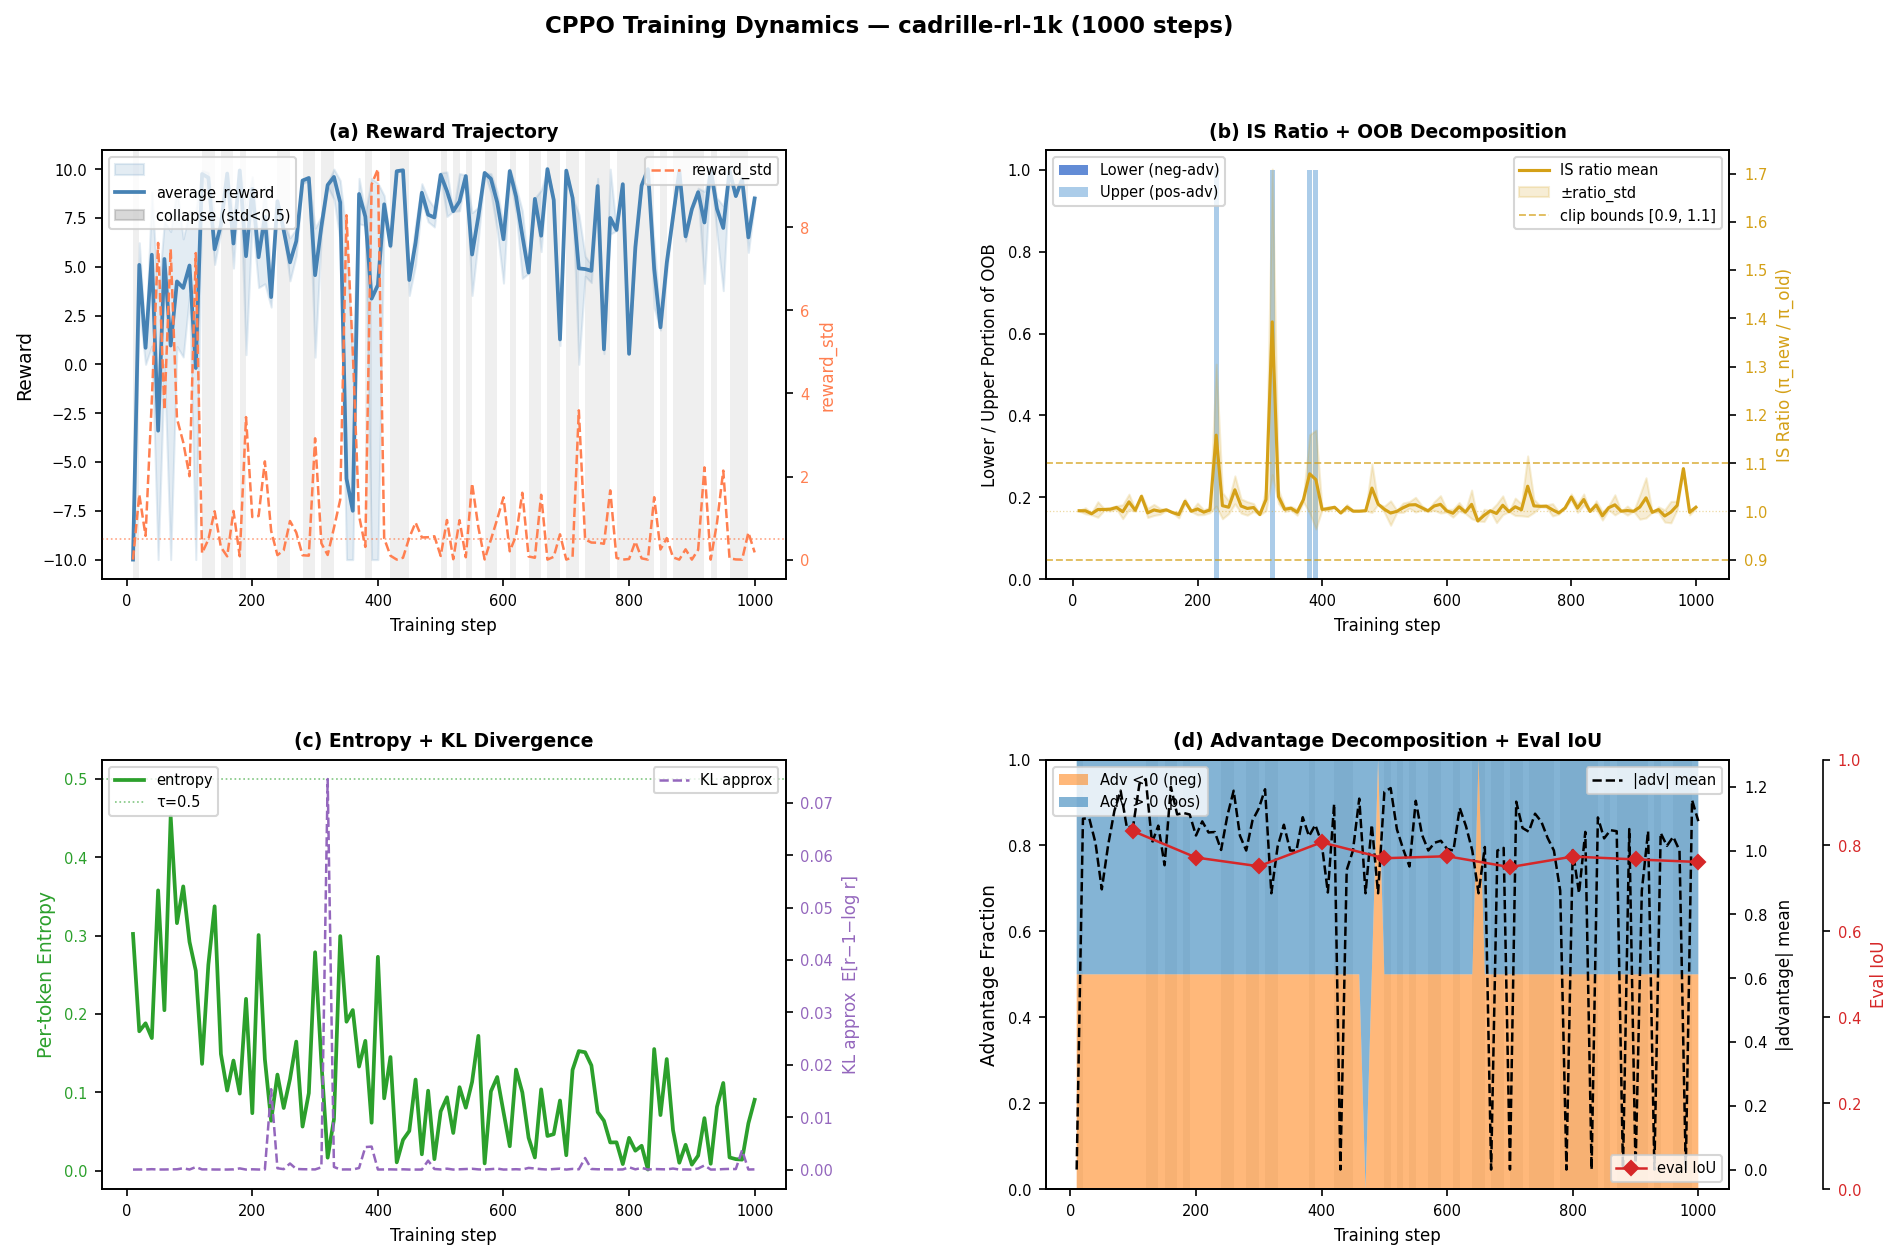
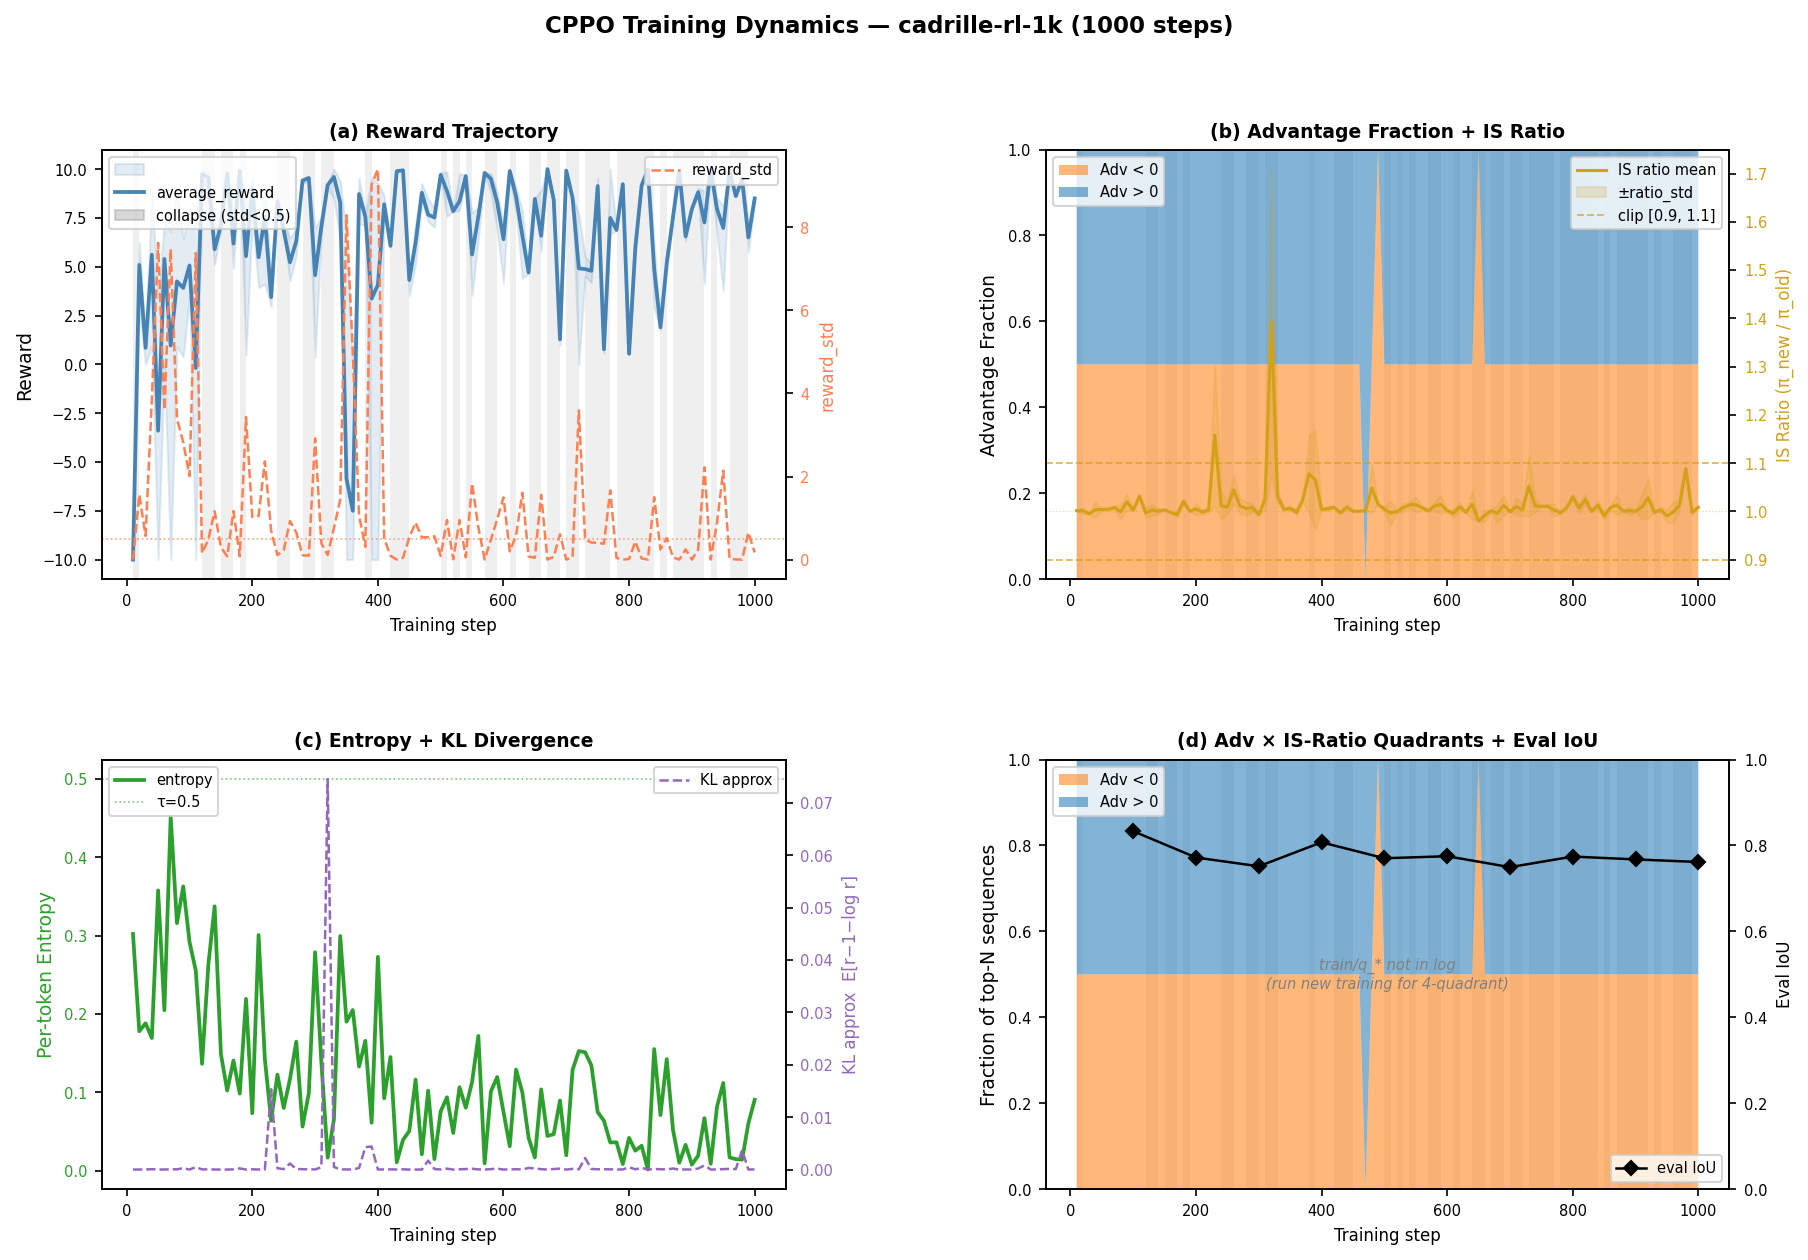
feat: 4-quadrant advantage×IS-ratio decomposition + panel redesign
rl/train.py — cppo_step():
  Add 4 joint metrics logged every step:
    train/q_pp  adv>0  & ratio>1  (healthy: prob↑ for good output)
    train/q_pn  adv>0  & ratio≤1  (mismatch: prob↓ for good output)
    train/q_np  adv≤0  & ratio>1  (mismatch: prob↑ for bad output)
    train/q_nn  adv≤0  & ratio≤1  (healthy: prob↓ for bad output)
  All four are NaN when reward_std<1e-6 (degenerate step).

viz/training_dynamics.py:
  Panel (b) — plot_adv_is():
    Left:  2-way advantage fraction stackplot (moved from old panel d)
    Right: IS ratio mean ± std with clip-bound lines [0.9, 1.1]

  Panel (d) — plot_4quadrant():
    4-way stackplot stacked nn/np/pn/pp (blue/red/orange/green)
    Collapse steps masked and forward-filled; grey collapse shading.
    Falls back to 2-way advantage fraction for old logs without q_* keys,
    with a note prompting a new training run.
    Eval IoU overlay preserved on right axis.

diff --git a/viz/training_dynamics.py b/viz/training_dynamics.py
@@ -144,40 +144,35 @@ def plot_reward(ax, steps, rows):
     ax.legend(handles=ax.get_legend().legend_handles + [patch], fontsize=7, loc='upper left')
 
 
-def plot_oob_is(ax, steps, rows):
-    """OOB IS ratio matching SAPO Fig. 4a exactly.
+def plot_adv_is(ax, steps, rows):
+    """Panel (b): Advantage fraction (left) + IS ratio mean ± std (right).
 
-    Left y-axis bars: lower/upper PORTION of OOB sequences (fraction of OOB that
-    are lower-bound vs upper-bound clipped) — so lower+upper = 1.0 within OOB steps.
-    Right y-axis gold line: total OOB rate % (clip_fraction * 100).
+    Left y-axis stackplot: fraction of top-N sequences with positive vs negative
+    advantage (2-way split).  Collapse zones (reward_std≈0) are forward-filled
+    and shaded grey.
 
-    A bar only appears when clip_fraction > 0. When no clipping occurs the bar
-    height is 0 (not plotted), so the axis never reaches 100% spuriously.
+    Right y-axis: IS ratio mean ± std band with clip-bound lines at
+    [1-EPS_LOW, 1+EPS_HIGH].  Falls back to total OOB rate when ratio_mean
+    is not present in the log.
     """
-    clip_lo  = np.nan_to_num(_col(rows, 'train/clip_lower_frac'))
-    clip_hi  = np.nan_to_num(_col(rows, 'train/clip_upper_frac'))
-    clip_tot = np.nan_to_num(_col(rows, 'train/clip_fraction'))
+    std_r    = _col(rows, 'train/reward_std')
+    pos_frac = _col(rows, 'train/adv_pos_frac')
 
-    has_decomp = not (np.all(clip_lo == 0) and np.all(clip_hi == 0))
+    # Mask degenerate collapse steps and forward-fill for stackplot
+    pos_frac  = np.where(std_r < 1e-3, np.nan, pos_frac)
+    pos_filled = _ffill(pos_frac, fill_val=0.5)
+    neg_filled = 1.0 - pos_filled
 
-    # Normalise to fraction-of-OOB (lower + upper = 1 when clip_tot > 0)
-    safe_tot = np.where(clip_tot > 0, clip_tot, np.nan)
-    lower_portion = np.where(clip_tot > 0, clip_lo / safe_tot, 0.0)
-    upper_portion = np.where(clip_tot > 0, clip_hi / safe_tot, 0.0)
+    _shade_collapse(ax, steps, std_r)
+    ax.stackplot(steps,
+                 [neg_filled, pos_filled],
+                 labels=['Adv < 0', 'Adv > 0'],
+                 colors=['#FF7F0E', '#1F77B4'],
+                 alpha=0.55)
+    ax.set_ylabel('Advantage Fraction', fontsize=9)
+    ax.set_ylim(0, 1)
 
-    width = max(1, (steps[-1] - steps[0]) / len(steps) * 0.8) if len(steps) > 1 else 1
-
-    if has_decomp:
-        ax.bar(steps, lower_portion, width=width,
-               color='#4878CF', alpha=0.85, label='Lower (neg-adv)')
-        ax.bar(steps, upper_portion, width=width, bottom=lower_portion,
-               color='#9DC3E6', alpha=0.85, label='Upper (pos-adv)')
-    else:
-        # No decomposition available — just show total as a single bar
-        ax.bar(steps, np.where(clip_tot > 0, 1.0, 0.0), width=width,
-               color='#4878CF', alpha=0.85, label='OOB (no decomp)')
-
-    # Right axis: IS ratio mean ± std with clip-bound lines
+    # Right axis: IS ratio mean ± std
     ratio_mean = _col(rows, 'train/ratio_mean')
     ratio_std  = np.nan_to_num(_col(rows, 'train/ratio_std'), nan=0.0)
     has_ratio  = not np.all(np.isnan(ratio_mean))
@@ -189,23 +184,21 @@ def plot_oob_is(ax, steps, rows):
         ax2.fill_between(steps, rm - ratio_std, rm + ratio_std,
                          color='#D4A017', alpha=0.18, label='±ratio_std')
         ax2.axhline(1 - EPS_LOW,  color='#D4A017', lw=0.9, ls='--', alpha=0.7,
-                    label=f'clip bounds [{1 - EPS_LOW:.1f}, {1 + EPS_HIGH:.1f}]')
+                    label=f'clip [{1 - EPS_LOW:.1f}, {1 + EPS_HIGH:.1f}]')
         ax2.axhline(1 + EPS_HIGH, color='#D4A017', lw=0.9, ls='--', alpha=0.7)
         ax2.axhline(1.0,          color='#D4A017', lw=0.6, ls=':', alpha=0.4)
         ax2.set_ylabel('IS Ratio (π_new / π_old)', color='#D4A017', fontsize=8)
         ax2.tick_params(axis='y', labelcolor='#D4A017', labelsize=7)
         ax2.legend(fontsize=7, loc='upper right')
     else:
-        ax2.plot(steps, clip_tot * 100, color='#D4A017', lw=1.5, label='Total OOB rate (%)')
-        ax2.set_ylabel('Total OOB Rate (%)', color='#D4A017', fontsize=8)
+        clip_tot = np.nan_to_num(_col(rows, 'train/clip_fraction'))
+        ax2.plot(steps, clip_tot * 100, color='#D4A017', lw=1.5, label='OOB rate (%)')
+        ax2.set_ylabel('OOB Rate (%)', color='#D4A017', fontsize=8)
         ax2.tick_params(axis='y', labelcolor='#D4A017', labelsize=7)
         ax2.legend(fontsize=7, loc='upper right')
 
-    ax.set_ylabel('Lower / Upper Portion of OOB', fontsize=8)
-    ax.set_title('(b) IS Ratio + OOB Decomposition', fontsize=9, fontweight='bold')
-    ax.set_ylim(0, 1.05)
+    ax.set_title('(b) Advantage Fraction + IS Ratio', fontsize=9, fontweight='bold')
     ax.legend(fontsize=7, loc='upper left')
-    # Note: right-axis legend handled above
 
 
 def plot_entropy_kl(ax, steps, rows):
@@ -240,49 +233,77 @@ def _ffill(arr: np.ndarray, fill_val: float = 0.5) -> np.ndarray:
     return out
 
 
-def plot_advantage(ax, steps, rows, eval_rows):
-    pos_frac  = _col(rows, 'train/adv_pos_frac')
-    abs_mean  = _col(rows, 'train/adv_abs_mean')
-    std_r     = _col(rows, 'train/reward_std')
+def plot_4quadrant(ax, steps, rows, eval_rows):
+    """Panel (d): 4-quadrant advantage × IS-ratio stackplot + eval IoU.
 
-    # Mask degenerate collapse steps (reward_std≈0 → all advantages=0 → pos_frac=0 is misleading)
-    pos_frac = np.where(std_r < 1e-3, np.nan, pos_frac)
+    The 4 quadrants partition every top-N sequence by:
+      - advantage sign  (adv > 0  vs  adv ≤ 0)
+      - IS ratio vs 1   (ratio > 1  vs  ratio ≤ 1)
 
-    # Forward-fill NaN so stackplot has no gaps (collapse zones kept at last known split)
-    pos_filled = _ffill(pos_frac, fill_val=0.5)
-    neg_filled = 1.0 - pos_filled
+    Healthy training concentrates in pp (green) and nn (blue).
+    Mismatch quadrants np (red) and pn (orange) indicate the policy moved
+    against the gradient signal.
 
-    # Shade collapse zones so it's clear those regions are forward-filled
+    Falls back to 2-way advantage fraction when q_* metrics are absent (old logs).
+    """
+    std_r = _col(rows, 'train/reward_std')
+    q_pp  = _col(rows, 'train/q_pp')   # adv>0, IS>1  (good)
+    q_pn  = _col(rows, 'train/q_pn')   # adv>0, IS≤1  (mismatch)
+    q_np  = _col(rows, 'train/q_np')   # adv≤0, IS>1  (mismatch)
+    q_nn  = _col(rows, 'train/q_nn')   # adv≤0, IS≤1  (good)
+
+    has_4q = not np.all(np.isnan(q_pp))
+
     _shade_collapse(ax, steps, std_r)
 
-    ax.stackplot(steps,
-                 [neg_filled, pos_filled],
-                 labels=['Adv < 0 (neg)', 'Adv > 0 (pos)'],
-                 colors=['#FF7F0E', '#1F77B4'],
-                 alpha=0.55)
+    if has_4q:
+        # Mask degenerate steps and forward-fill
+        def _prep(arr):
+            return _ffill(np.where(std_r < 1e-3, np.nan, arr), fill_val=0.25)
+        pp = _prep(q_pp);  pn = _prep(q_pn)
+        np_ = _prep(q_np); nn = _prep(q_nn)
 
-    ax2 = ax.twinx()
-    ax2.plot(steps, abs_mean, color='black', lw=1.2, ls='--', label='|adv| mean')
-    ax2.set_ylabel('|advantage| mean', fontsize=8)
-    ax2.tick_params(axis='y', labelsize=7)
+        # Normalise rows to sum to 1 (guard floating-point drift)
+        total = pp + pn + np_ + nn
+        total = np.where(total > 0, total, 1.0)
+        pp /= total;  pn /= total;  np_ /= total;  nn /= total
 
-    # Overlay eval IoU if available
+        # Stacking order (bottom→top): nn, np, pn, pp
+        ax.stackplot(steps,
+                     [nn, np_, pn, pp],
+                     labels=['Adv≤0 IS≤1 ✓', 'Adv≤0 IS>1 ✗', 'Adv>0 IS≤1 ✗', 'Adv>0 IS>1 ✓'],
+                     colors=['#1F77B4', '#D62728', '#FF7F0E', '#2CA02C'],
+                     alpha=0.65)
+        ax.axhline(0.5, color='grey', lw=0.6, ls=':', alpha=0.5)
+    else:
+        # Fallback: 2-way advantage fraction (old log without q_* keys)
+        pos_frac  = _col(rows, 'train/adv_pos_frac')
+        pos_frac  = np.where(std_r < 1e-3, np.nan, pos_frac)
+        pos_filled = _ffill(pos_frac, fill_val=0.5)
+        ax.stackplot(steps,
+                     [1.0 - pos_filled, pos_filled],
+                     labels=['Adv < 0', 'Adv > 0'],
+                     colors=['#FF7F0E', '#1F77B4'],
+                     alpha=0.55)
+        ax.text(0.5, 0.5, 'train/q_* not in log\n(run new training for 4-quadrant)',
+                transform=ax.transAxes, ha='center', va='center',
+                fontsize=7, color='grey', style='italic')
+
+    ax.set_ylabel('Fraction of top-N sequences', fontsize=9)
+    ax.set_ylim(0, 1)
+    ax.set_title('(d) Adv × IS-Ratio Quadrants + Eval IoU', fontsize=9, fontweight='bold')
+    ax.legend(fontsize=7, loc='upper left')
+
+    # Eval IoU overlay
     if eval_rows:
         e_steps = np.array([r['step'] for r in eval_rows])
         e_iou   = _col(eval_rows, 'eval/pc/DeepCAD test/IoU mean')
-        ax3 = ax.twinx()
-        ax3.spines['right'].set_position(('outward', 45))
-        ax3.plot(e_steps, e_iou, 'D-', color='#D62728', ms=5, lw=1.2, label='eval IoU')
-        ax3.set_ylabel('Eval IoU', color='#D62728', fontsize=8)
-        ax3.tick_params(axis='y', labelcolor='#D62728', labelsize=7)
-        ax3.set_ylim(0, 1)
-        ax3.legend(fontsize=7, loc='lower right')
-
-    ax.set_ylabel('Advantage Fraction', fontsize=9)
-    ax.set_ylim(0, 1)
-    ax.set_title('(d) Advantage Decomposition + Eval IoU', fontsize=9, fontweight='bold')
-    ax.legend(fontsize=7, loc='upper left')
-    ax2.legend(fontsize=7, loc='upper right')
+        ax2 = ax.twinx()
+        ax2.plot(e_steps, e_iou, 'D-', color='black', ms=5, lw=1.2, label='eval IoU')
+        ax2.set_ylabel('Eval IoU', fontsize=8)
+        ax2.tick_params(axis='y', labelsize=7)
+        ax2.set_ylim(0, 1)
+        ax2.legend(fontsize=7, loc='lower right')
 
 
 # ---------------------------------------------------------------------------
@@ -319,9 +340,9 @@ def main():
         ax.tick_params(labelsize=7)
 
     plot_reward(ax1, steps, train_rows)
-    plot_oob_is(ax2, steps, train_rows)
+    plot_adv_is(ax2, steps, train_rows)
     plot_entropy_kl(ax3, steps, train_rows)
-    plot_advantage(ax4, steps, train_rows, eval_rows)
+    plot_4quadrant(ax4, steps, train_rows, eval_rows)
 
     title = args.title or os.path.splitext(os.path.basename(os.path.dirname(args.log)))[0]
     fig.suptitle(f'CPPO Training Dynamics — {title}', fontsize=11, fontweight='bold')

diff --git a/rl/train.py b/rl/train.py
@@ -613,6 +613,17 @@ def cppo_step(model, old_model, optimizer, item, processor, args) -> dict:
             'train/adv_pos_frac':    (float('nan') if std_r.item() < 1e-6
                                       else (advantages > 0).float().mean().item()),
             'train/adv_abs_mean':    advantages.abs().mean().item(),
+            # 4-quadrant IS × advantage decomposition (NaN when degenerate).
+            # q_pp / q_nn are "healthy" quadrants (model moved in the right direction).
+            # q_pn / q_np are "mismatch" quadrants (model moved against the gradient).
+            'train/q_pp': (float('nan') if std_r.item() < 1e-6 else
+                           ((advantages > 0) & (ratio > 1.0)).float().mean().item()),
+            'train/q_pn': (float('nan') if std_r.item() < 1e-6 else
+                           ((advantages > 0) & (ratio <= 1.0)).float().mean().item()),
+            'train/q_np': (float('nan') if std_r.item() < 1e-6 else
+                           ((advantages <= 0) & (ratio > 1.0)).float().mean().item()),
+            'train/q_nn': (float('nan') if std_r.item() < 1e-6 else
+                           ((advantages <= 0) & (ratio <= 1.0)).float().mean().item()),
             # Distribution lists for wandb.Histogram (stripped before log.txt)
             '_rewards_list':         rewards,                         # all G rollout rewards
             '_ratio_list':           ratio.detach().cpu().tolist(),   # top_N ratios
